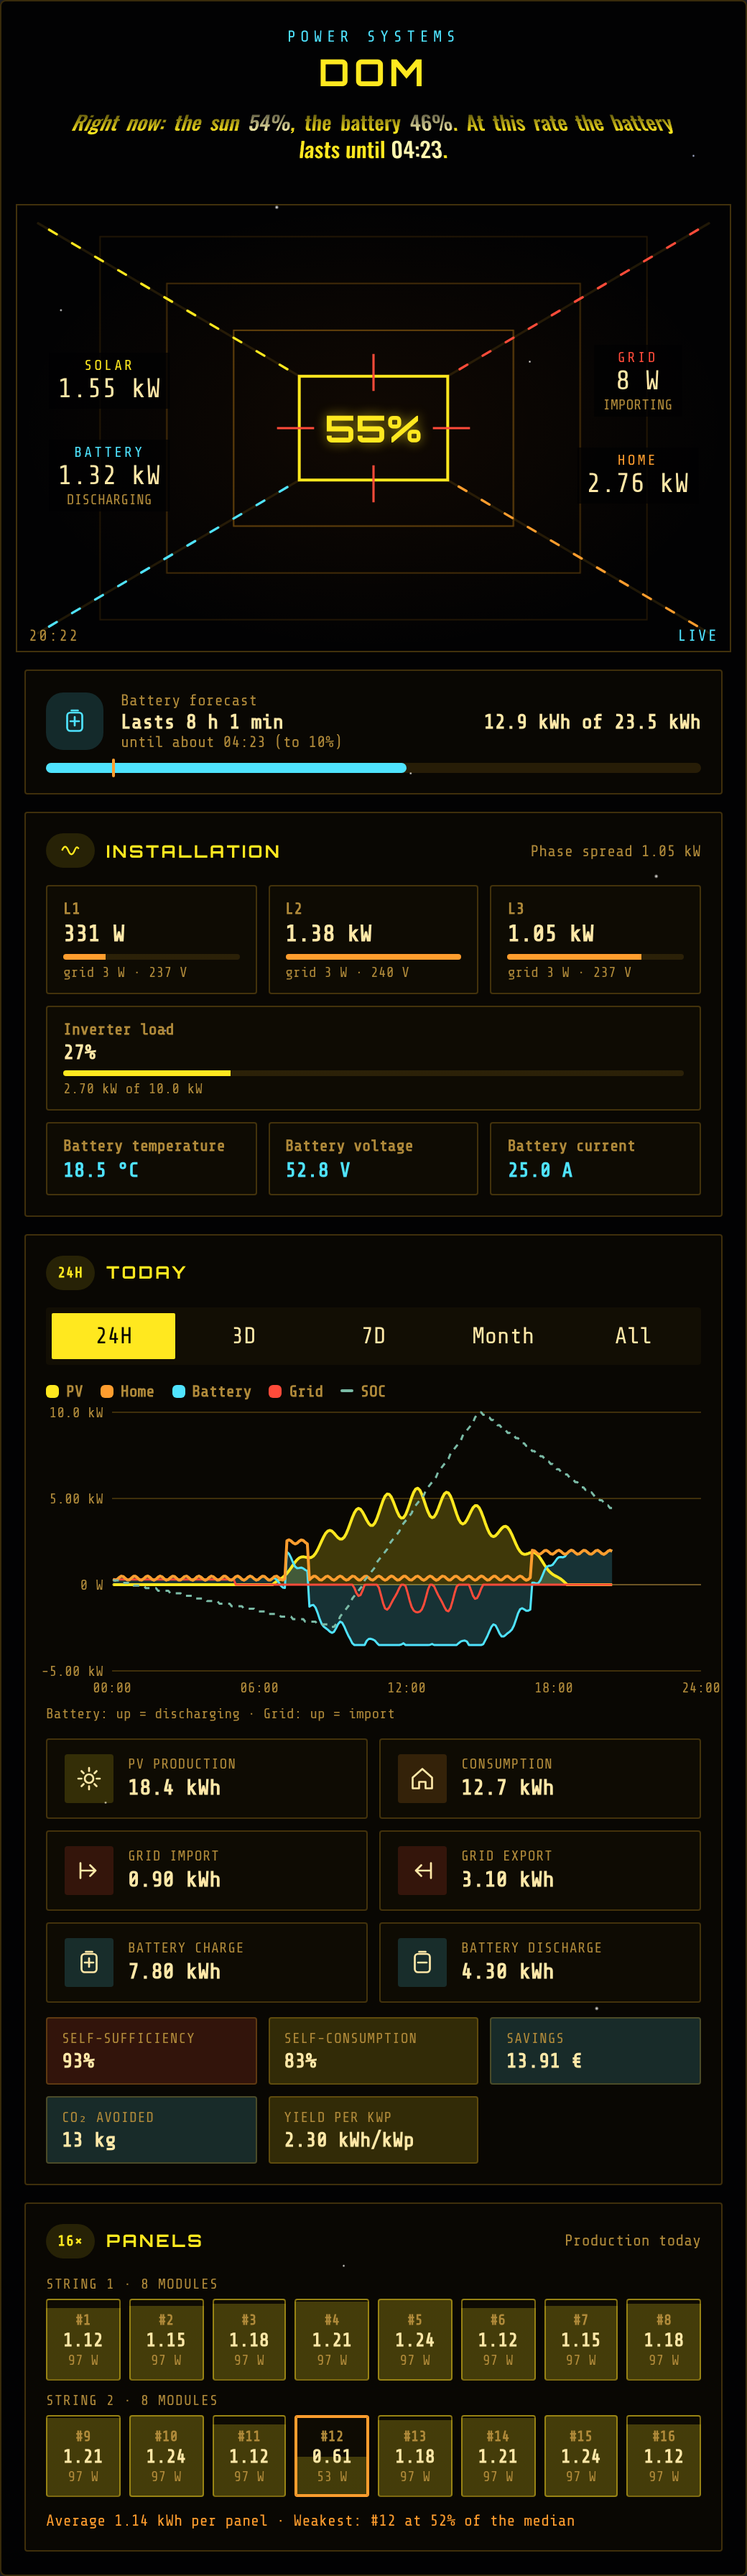
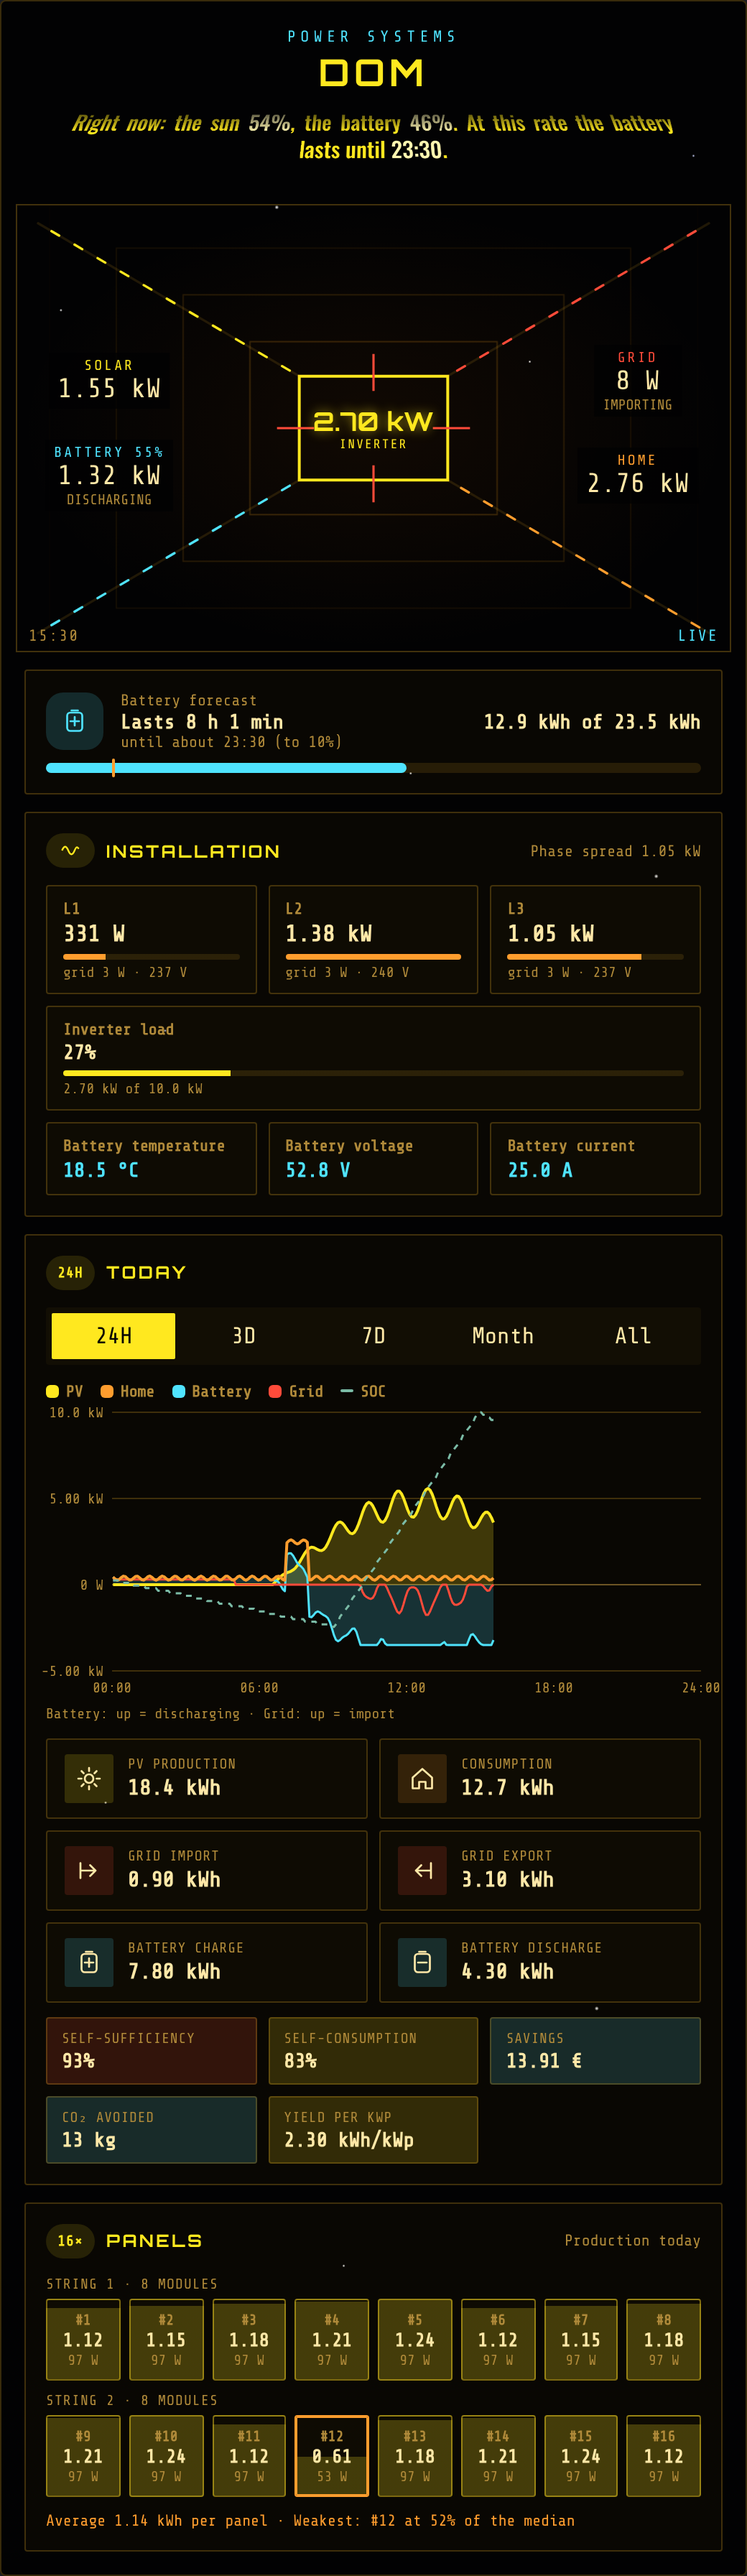
1.2.0: several batteries, Diorama weather, inverter at the centre, calmer animations
Claude-Session: https://claude.ai/code/session_0152SgGeW2oeSktbBVvrriod

diff --git a/solar-flow-card.js b/solar-flow-card.js
@@ -7,7 +7,7 @@
  * Built from src/*.js by scripts/build.mjs. Edit the sources, not this file.
  */
 (() => {
-const CARD_VERSION = "1.1.0";
+const CARD_VERSION = "1.2.0";
 const CARD_TAG = "solar-flow-card";
 const EDITOR_TAG = "solar-flow-card-editor";
 const THEMES = ["diorama", "aurora", "paper", "lcars", "atlantis", "expanse", "foundation", "galaxy"];

diff --git a/src/00-header.js b/src/00-header.js
@@ -6,7 +6,7 @@
  *
  * Built from src/*.js by scripts/build.mjs. Edit the sources, not this file.
  */
-const CARD_VERSION = "1.1.0";
+const CARD_VERSION = "1.2.0";
 const CARD_TAG = "solar-flow-card";
 const EDITOR_TAG = "solar-flow-card-editor";
 const THEMES = ["diorama", "aurora", "paper", "lcars", "atlantis", "expanse", "foundation", "galaxy"];

diff --git a/CHANGELOG.md b/CHANGELOG.md
@@ -1,15 +1,13 @@
 # Changelog
 
-## Unreleased
+## 1.2.0
 
-- Several batteries: the `batteries:` option (name, soc, power, capacity, optional voltage, temperature and `invert`). The themes show one combined battery (summed power, charge weighted by capacity, total capacity for the forecast, also in the power chart); the Installation section shows each battery with its charge, power, voltage and temperature, and warns when one of them is too cold or hot. The demo has a "two batteries" setting.
-
-- Diorama follows the weather of a Home Assistant weather entity (`weather_entity`, otherwise the first one found; `show_weather: false` turns it off, also in the editor): drifting clouds, a grey sky when overcast, rain, snow, fog and lightning; twinkling stars on clear nights; the temperature next to the clock.
-- Foundation: the orbits stay still and the planets travel all the way round them, instead of the whole ellipses swinging; the sphere breathes more slowly.
-- Far galaxy: a calmer trench (slower, fainter), slower flow dots and a gentle pulse instead of a blink at the battery reserve.
+- **Several batteries**: the `batteries:` option (name, soc, power, capacity, optional voltage, temperature and `invert`). The themes show one combined battery (summed power, charge weighted by capacity, total capacity for the forecast, also in the power chart); the Installation section shows each battery with its charge, power, voltage and temperature, and warns when one of them is too cold or hot. The demo has a "two batteries" setting.
+- **Diorama weather**: the sky follows a Home Assistant weather entity (`weather_entity`, otherwise the first one found; `show_weather: false` turns it off, also in the editor): drifting clouds, a grey sky when overcast, rain, snow, fog and lightning; twinkling stars on clear nights; the temperature next to the clock.
+- **Atlantis, Foundation and Far galaxy**: the centre is the inverter, where all flows meet. It shows the inverter's power (Atlantis also its load against rated power on the ring) instead of the battery level, which read as if the centre were a source. The battery level moved to the battery node ("Battery 37%"); Far galaxy marks a battery at its reserve there in red.
+- **Foundation**: the orbits stay still and the planets travel all the way round them, instead of the whole ellipses swinging; the sphere breathes more slowly.
+- **Far galaxy**: a calmer trench (slower, fainter), slower flow dots and a gentle pulse instead of a blink at the battery reserve.
 - Looping animations keep their place when the card refreshes instead of starting over.
-
-- Atlantis, Foundation and Far galaxy: the centre is the inverter, where all flows meet. It shows the inverter's power (Atlantis also its load against rated power on the ring) instead of the battery level, which read as if the centre were a source. The battery level moved to the battery node ("Battery 37%"); Far galaxy marks a battery at its reserve there in red.
 
 ## 1.1.0
 
